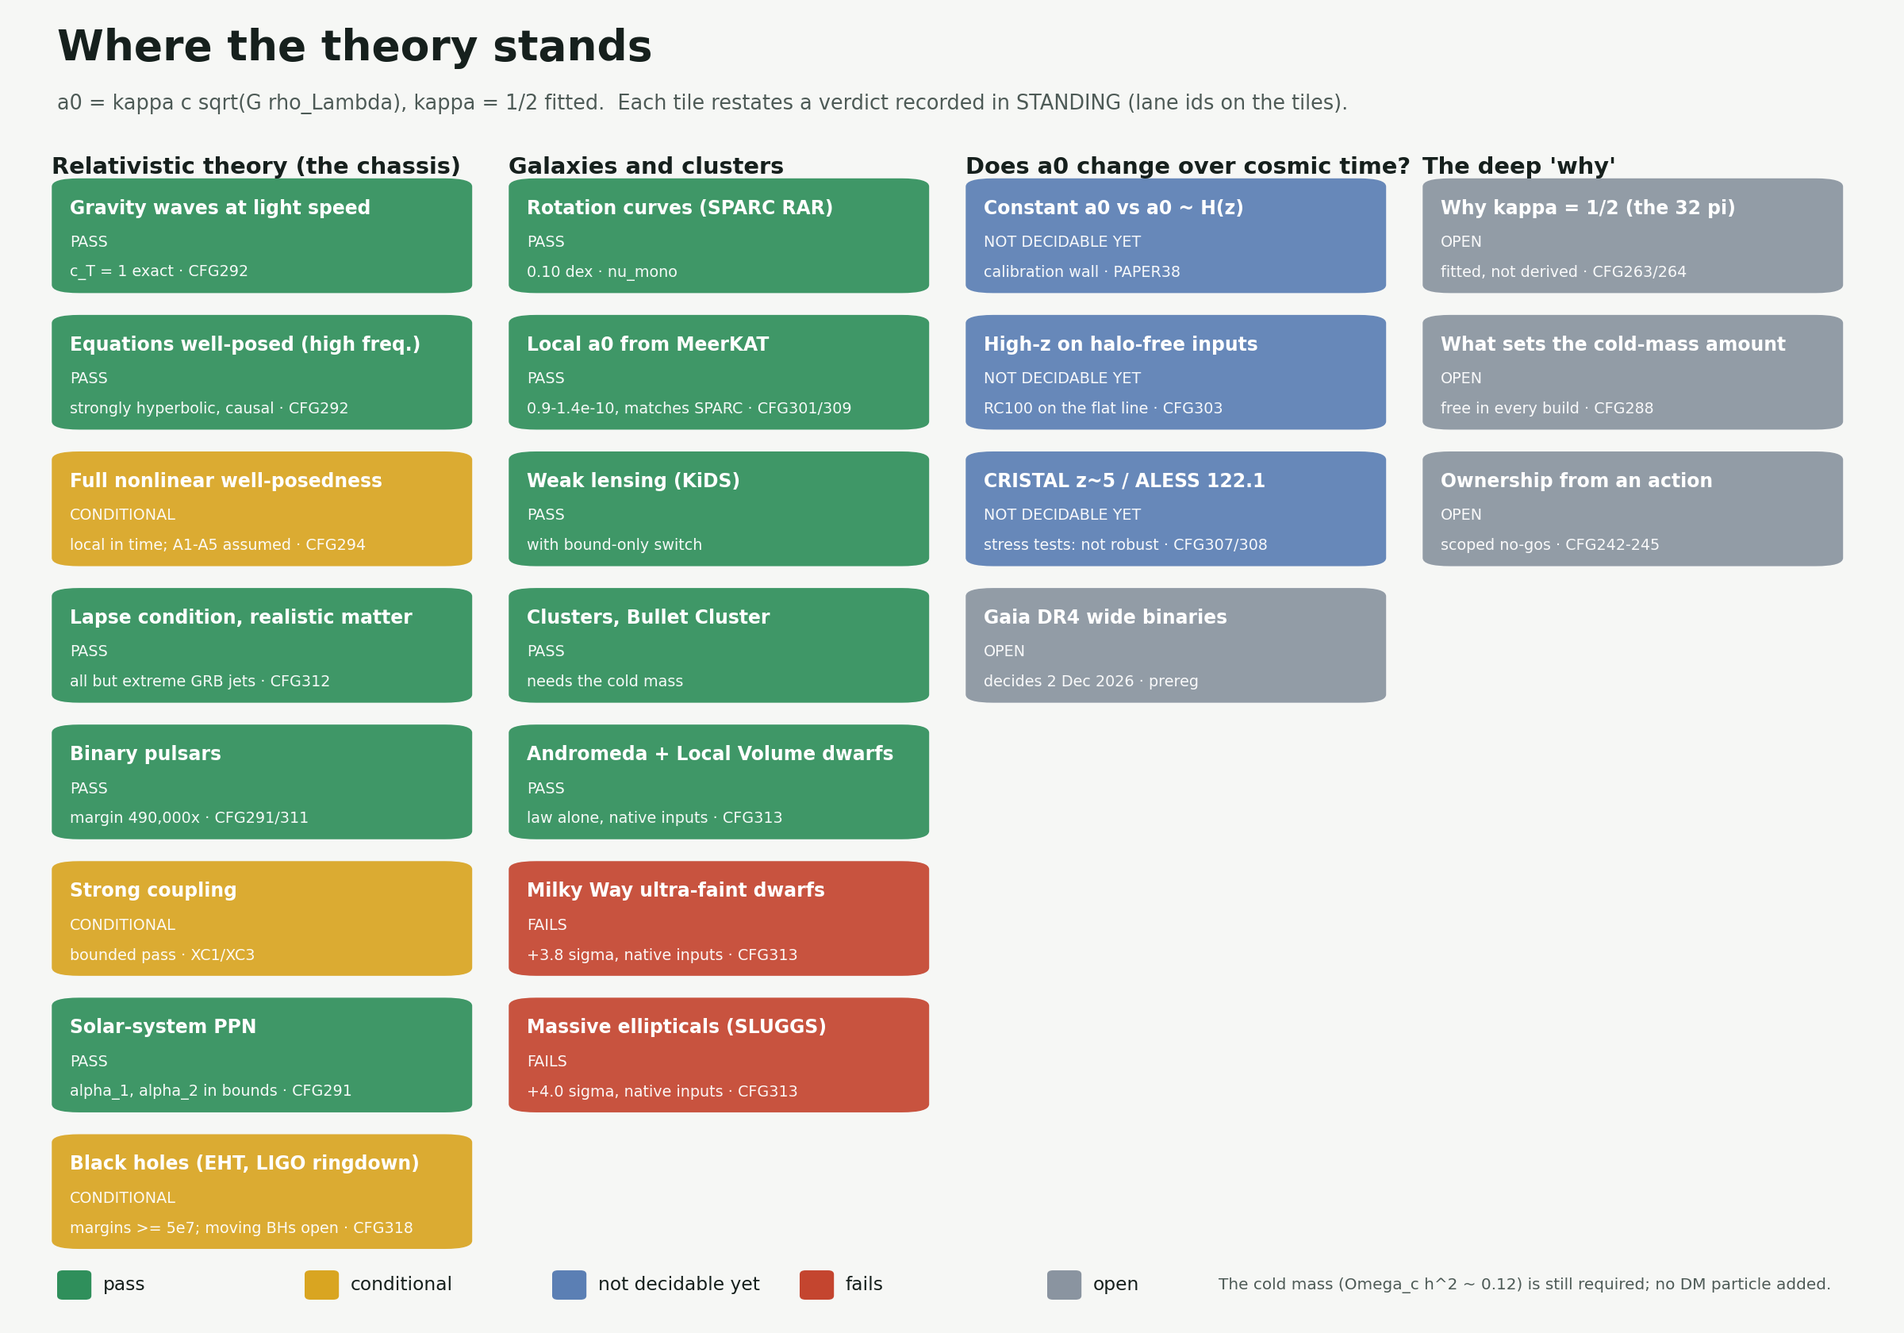
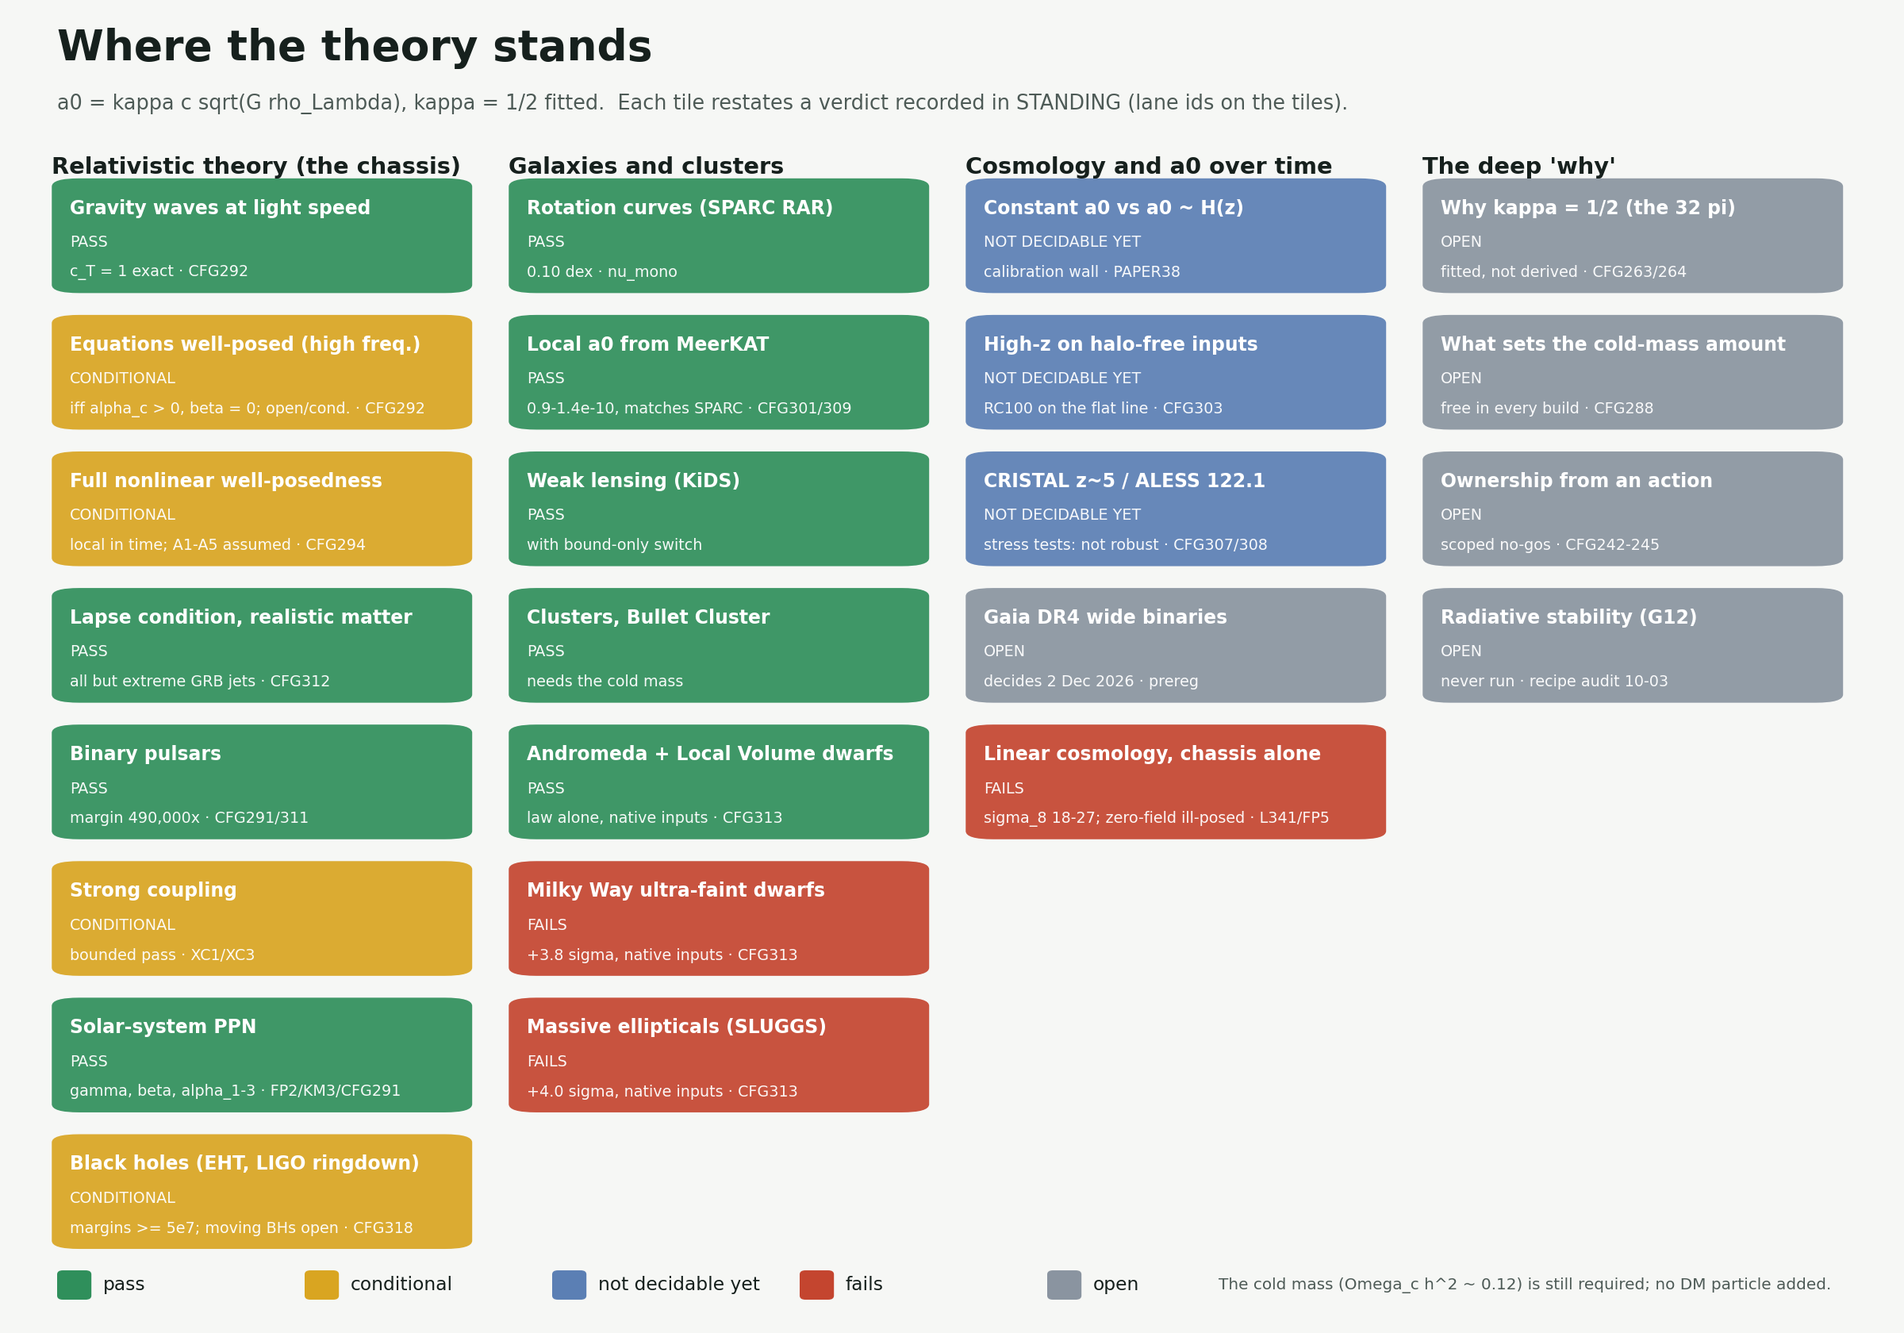
Recipe gate audit 2026-10-03 (every G0-G12 gate mapped to its recorded verdict for the current chassis; no verdict upgraded) + status picture corrected: CFG292 well-posedness shown CONDITIONAL (recorded OPEN/CONDITIONAL, was wrongly PASS); PPN tile cites FP2/KM3/CFG291; added the omitted FAIL tile '

diff --git a/campaign_fresh_gravity/closure_map/status_picture_2026_10_03.py b/campaign_fresh_gravity/closure_map/status_picture_2026_10_03.py
@@ -14,12 +14,12 @@ LAB = {"PASS": "pass", "COND": "conditional", "OPEN": "open", "FAIL": "fails", "
 groups = [
     ("Relativistic theory (the chassis)", [
         ("Gravity waves at light speed", "PASS", "c_T = 1 exact · CFG292"),
-        ("Equations well-posed (high freq.)", "PASS", "strongly hyperbolic, causal · CFG292"),
+        ("Equations well-posed (high freq.)", "COND", "iff alpha_c > 0, beta = 0; open/cond. · CFG292"),
         ("Full nonlinear well-posedness", "COND", "local in time; A1-A5 assumed · CFG294"),
         ("Lapse condition, realistic matter", "PASS", "all but extreme GRB jets · CFG312"),
         ("Binary pulsars", "PASS", "margin 490,000x · CFG291/311"),
         ("Strong coupling", "COND", "bounded pass · XC1/XC3"),
-        ("Solar-system PPN", "PASS", "alpha_1, alpha_2 in bounds · CFG291"),
+        ("Solar-system PPN", "PASS", "gamma, beta, alpha_1-3 · FP2/KM3/CFG291"),
         ("Black holes (EHT, LIGO ringdown)", "COND", "margins >= 5e7; moving BHs open · CFG318"),
     ]),
     ("Galaxies and clusters", [
@@ -31,16 +31,18 @@ groups = [
         ("Milky Way ultra-faint dwarfs", "FAIL", "+3.8 sigma, native inputs · CFG313"),
         ("Massive ellipticals (SLUGGS)", "FAIL", "+4.0 sigma, native inputs · CFG313"),
     ]),
-    ("Does a0 change over cosmic time?", [
+    ("Cosmology and a0 over time", [
         ("Constant a0 vs a0 ~ H(z)", "UNDEC", "calibration wall · PAPER38"),
         ("High-z on halo-free inputs", "UNDEC", "RC100 on the flat line · CFG303"),
         ("CRISTAL z~5 / ALESS 122.1", "UNDEC", "stress tests: not robust · CFG307/308"),
         ("Gaia DR4 wide binaries", "OPEN", "decides 2 Dec 2026 · prereg"),
+        ("Linear cosmology, chassis alone", "FAIL", "sigma_8 18-27; zero-field ill-posed · L341/FP5"),
     ]),
     ("The deep 'why'", [
         ("Why kappa = 1/2 (the 32 pi)", "OPEN", "fitted, not derived · CFG263/264"),
         ("What sets the cold-mass amount", "OPEN", "free in every build · CFG288"),
         ("Ownership from an action", "OPEN", "scoped no-gos · CFG242-245"),
+        ("Radiative stability (G12)", "OPEN", "never run · recipe audit 10-03"),
     ]),
 ]
 

diff --git a/campaign_fresh_gravity/closure_map/RECIPE_GATE_AUDIT_2026-10-03.md b/campaign_fresh_gravity/closure_map/RECIPE_GATE_AUDIT_2026-10-03.md
@@ -1,0 +1,112 @@
+# Recipe gate audit, 2026-10-03: G0–G12 against the current chassis
+
+Documentary audit. No new calculation, no verdict upgraded. Every verdict below is quoted from a committed record
+(STANDING_2026-09-29.md, LEDGER.md, closure_map/GATES_STATUS_2026-09-29.md, the lane READMEs/outputs named). κ = ½ is
+FITTED; the cold mass is still required; nothing here says the theory is closed.
+
+## What is being scored
+
+- **The recipe:** `qwen_claude_field_theory/closure_2026/CRISPY_FRIED_CHICKEN_RECIPE.md` §5 (G0–G12), read with its
+  2026-09-26 user decisions: the kernel is ν_mono (QUMOND, through the heat filter S = e^{(ξ²/2)Δ}); causality is
+  criterion B; Z = 5.7888 is κ = ½ restated; two branches (B-νmono C-H/K and IC28), never pooled; the switch variable
+  is "all doors". The recipe's G1 and V1 wording ("μ = 1 − e^{−y}") is superseded by the ν_mono decision; G1 is read
+  with ν_mono below.
+- **The current chassis:** the ungated filtered C-H/K khronon (L340, 9ea5ab2c6): GR + α_c a·a − c₂K² with β = 0,
+  α_c ∈ [9.6e-14, 3.2e-9], c₂ = λ_K − 1 ∈ [7.29e-3, 0.0667], the leaf-average λ-term (L350 G5), ν_mono, ξ ≥ 0.031 pc
+  (canonical) / 0.045 pc (alt).
+- **Candidate B** = the law + ownership + the cold component. No committed action produces B (GATES 5.01 FAIL / OPEN).
+  So a chassis pass is a pass for the chassis, not for B; B's population rows are effective-law results.
+
+## Same cell ≠ same model: results that do NOT transfer to the chassis
+
+- The recipe's §9 table (G3/G6/G7 PASS, G8 OPEN) belongs to the khronometric + MOND candidate with η = 2e^{−y}, which
+  died 09-01 (FC-KH). Historical only.
+- XR25 (pulsars, PPN, compact objects) and XR26 (CMB, BBN) score the derivation chain's FP14 core: c₂ → ∞ (CMC
+  multiplier), an AQUAL-type scalar, FP13's separator and a dark field. Different action; none of its passes or fails
+  transfer. FP2 and FP5 in the same directory ARE rooted in the ungated C-H/K core and are used below.
+- DE1–DE3's growth/KiDS/forest passes use a prescribed vacuum gate; DE12/DE13 find that gate unstable as an action,
+  and the V0 region gate is obstructed when varied (GATES 5.02). Those passes are not chassis passes.
+- GATES §1–§3 rows (SPARC, clusters, KiDS isolated lenses, CMB "met by construction") are candidate B's effective law.
+
+## Gate table
+
+| gate | recipe requirement (one line) | recorded verdict (lane, commit) | for which model | what would move it |
+|---|---|---|---|---|
+| **G0** | Structural order: put Φ → εΦ and order every source; different orders cannot cancel | **NOT RUN** on the chassis. The record's G0 kill (a9261161) is for an older auxiliary carrier. | none for the chassis | Order every chassis term under Φ → εΦ: the C-H constitutive term, δS (the filter's metric variation), the leaf average, the khronon |
+| **G1** | Exact MOND reduction over the full MOND domain (now ν_mono, QUMOND, filtered) | Static chassis inherits C-H's static solutions exactly (L340 H5 PASS). SPARC RAR PASS, 0.1003 dex, RE-RUN-CLEAN (GATES 1.01). Derivation from the assembled action (gate + region kernel): **ORPHANED** (XR3 row 1(b)). B: 5.01 FAIL / OPEN. | chassis static sector: yes; B: no action | Derive the quasistatic law from one assembled action; settle the C^{1,1} splice (C² variant or a nonsmooth argument; XR3 step 0(b), an owner choice) |
+| **G2** | Measured G_N derived; regular recovery with the same G in dynamics, lensing, cosmology | Derived on the ungated chassis: G_N = G/(1 − α_c/2), G_cos = G with the leaf average, growth coupling 1/(1 − α_c/2), no slip (FP2 D1–D3, 24aae971e; KM3 2f7ddacd2). Solar recovery only through the filter: bare ν_mono misses the planetary bound 2894–3620× (CFG185 568107b4f). Assembled action: **orphaned** (GATES 5.09; XR3 row 10). 4.01 passes via ownership (effective law). | ungated chassis | Measured G of the assembled action (region kernel with M = 0 in the Solar System, gate on) |
+| **G3** | Tensor sector: Q_T > 0, c_T² = 1 | c_T² = 1/(1 − β) exactly, 1 at β = 0, GR's kinetic term (CFG292 T1, 918b33183; FP2 A3). GATES 5.07: "c_T = 1 in the reduced sector". TT on anisotropic gate-on backgrounds: **ORPHANED (low risk)** (XR3 row 6). | chassis | TT modes on anisotropic MOND backgrounds with the constitutive term and δS |
+| **G4** | DOF from an actual Hamiltonian/characteristic analysis | Ungated chassis: **DERIVED** canonical count 2 tensor + 1 khronon scalar, 0 vector, N = 3; heat-filter pairs second class, no extra mode (FP5 G-2a, B1–B2, a26136bc4); same count from the characteristic determinant (CFG292 T1). Assembled action Dirac classification: **ORPHANED** (GATES 5.05; XR3 row 2). | ungated chassis | Spec reading, not a calculation: whether the khronon is the permitted, separately counted clock (I3a). Criterion B supports that reading but does not replace it (XR3 row 2). Then the assembled count |
+| **G5** | No ghost, no gradient instability, for every propagating mode | Healthy on Minkowski and on static MOND backgrounds (FP2 C3); khronon kinetic coefficient (2 + 3c₂)/(2c₂) > 0 (FP5 B3); healthy for every field above y* a₀ (FP5 C1). **FAILS** at an open zero-field region, the ungated core's own FRW: α_eff = 2 + α_c > 2, Hadamard ill-posed linearisation; amplitude saturates near y ~ y* (FP5 G-2f, C2–C4). V0 region gate: **FAIL as varied** (GATES 5.02). | chassis (FP5); V0 assembled (5.02) | A nonperturbative treatment of the zero-field background (FP5 C4: FRW "is not a perturbative background"), or a construction that keeps the kernel off there (FP5 C6's priced c_CH = 2(1 − δ) exit, not adopted) |
+| (G4/G5 Cauchy) | Criterion B; mixed elliptic–hyperbolic problem well-posed | CFG292: **OPEN under the literal frozen rule, CONDITIONAL by its own §2** (owner decides which stands); strongly hyperbolic in the τ gauge iff α_c > 0, β = 0; criterion B holds and the khronon leaves are forced. CFG294 (e92012b82): **CONDITIONAL, local in time**, A1–A5 assumed. CFG312 (b15bf423c): W ≤ 0 **PASS-WITH-EXCEPTIONS** (extreme GRB jets). | chassis | Prove A1–A5 (paradifferential estimates, constraint propagation); zero-field regions; β ≠ 0 not needed (β = 0) |
+| **G6** | Derive Φ, Ψ; MOND dynamics and lensing; target Φ = Ψ | Static leading-order block has equal, independently solved potentials (L340 H5; ACTION.md; called "conditional"); γ = 1 for every C_eff (FP2 B3). GATES 4.03: **NS as derivation**. Assembled action: **ORPHANED** (XR3 row 3). Data side (B, effective): KiDS isolated lenses PASS at x_e = 0.4; KiDS early/late split B-specific failure (STANDING §3); CFG316 NOT DIAGNOSTIC. | chassis static: conditional; B: effective only | Φ, Ψ for nonspherical sources with δS and the region kernel; DES Y3 / HSC Y3 shapes for the split (owner decision) |
+| **G7** | γ, β, α₁, α₂, α₃ computed explicitly | Ungated chassis with the C-H sector and filter live: γ = 1, α₃ = 0, α₁, α₂ in closed form, leakage ≤ 1e-11 at bound scales (FP2 B3–B4, L6a/L6c DERIVED); β = γ = 1 at 1PN (KM3). Over the window α₁ ≤ 1.28e-8; α₂'s top edge sits on the pulsar bound **by construction** (CFG291 5f1f07dc2). ζ_i, ξ: documentary (KM3 P4/P6). GATES 4.04: **NS for B**. | chassis | Full PPN of the assembled action (gate on, region kernel M = 0, filtered remainder computed) — XR3 row 4, low risk |
+| **G8** | Λ_sc on the actual Solar-System background ≫ E | **Bounded pass at frozen-background decoupling scope**, M_sc ≥ 8.5e8 GeV (XC1, XC3); filter metric variation enters only soft legs (XC6 part 1, abbc58baf). Conditional at full-action scope (GATES 5.03). XC6 part 2 **not done**. | chassis | XC6 part 2: canonical couplings of soft-legged vertices on Sun + Galaxy at ξ = 0.031 pc; quartic contact/exchange with nonlinear U elimination; second metric variation |
+| **G9** | Full relativistic matter conservation | GATES 5.06: **NS**. Assembled action: **ORPHANED** (XR3 row 5). For B's gated field the Noether identity is exact but reacts on baryons at 0.55–2.2 of their weight (CFG48 G1). Ungated chassis with minimal S_m[g, ψ]: no committed lane writes the identity. | none for the chassis | Write the generalized Bianchi identity of the ungated chassis including the heat-filter pair and the leaf average's global term |
+| **G10** | FLRW, a₀ behaviour, cosmological G, perturbations, growth, CMB/ISW | Ungated chassis: **FAILS** linear cosmology, σ₈ = 18–27 (L341, e9f450b10); no linear FRW at zero gradient (FP2 D4; FP5 G-2f). Background is GR's Friedmann equation, c₂ root tension removed at linear order by the leaf average (FP2 D1–D2). Plain −c₂K² c₂ window excluded by Planck-era caps (L350). With the prescribed gate: growth, KiDS, forest restored (L359, DE2), but the gate is unstable as an action (DE12/13). GATES 5.10: **partial**. B: CMB "met by construction", growth "met by allowance". | chassis: FAIL; gated: prescribed only | A varied, stable switch on FRW at the actual B (XR3 row 8 (a)–(c), orphaned); the dark state at action level (5.11 OPEN) |
+| **G11** | Compact objects, BHs, caustics | **CONDITIONAL** (CFG318, 91a1a7bcb): static BHs regular outside the horizon, margins ≥ 4.9e7; condition = Ramos & Barausse 2019 moving BHs (read as a proof for all α > 0 it would be KILL; owner's call). Pulsars: **PASS at the stated scope** (CFG311, 3303c9341; margin 4.9e5). | chassis | CFG319 (moving BHs), running — excluded from the ranking |
+| **G12** | Is the screening relation technically stable or fine-tuned? | **NOT RUN.** XC1 lists "loops and naturalness (G12)" as not covered. No lane on the record. | none | A radiative-stability lane (below) |
+
+### Two wording flags found in the audit (not corrected here)
+
+1. `closure_map/status_picture_2026_10_03.py` draws "Gravity waves at light speed" and "Equations well-posed (high freq.)"
+   as PASS with "CFG292". CFG292's recorded status is OPEN (literal frozen rule) / CONDITIONAL (its own §2), owner to
+   decide (STANDING line 560). The c_T = 1 algebra itself is exact (T1; FP2 A3), but the tile cites a lane whose verdict is
+   not PASS. Similarly "Solar-system PPN PASS · CFG291": CFG291 scores α₁, α₂ only; γ, α₃ come from FP2, β from KM3.
+2. GATES 5.05 "N_grav = 2 orphaned" refers to the assembled action; the ungated count (FP5 G-2a, N = 3) is derived but
+   not cited there. The open part is the spec reading of the khronon as a clock, not the count.
+
+## Ranking: gates that are NOT RUN, or OPEN and runnable offline now
+
+Excluded: G11 (CFG319 running). Excluded as needing an owner decision or data: the khronon-as-clock reading (G4), the
+CFG292 reading, the C² splice choice, DES Y3 / HSC Y3 shapes (G6 data), a new gate architecture (G10).
+
+| rank | gate | why this rank |
+|---|---|---|
+| 1 | **G12** naturalness and Lorentz-violation percolation | The only gate with no record at all. It can exclude part of the window: the chassis has c₂ ~ 1e-2 of gravitational Lorentz violation, and loops can feed that into matter, where bounds are far tighter. A loss here constrains every other pass. |
+| 2 | **G5/G10** nonlinear evolution around an open zero-field region | FP5 records the chassis's own FRW linearisation as Hadamard ill-posed, but saturating near y*. Whether the nonlinear problem is well-posed there decides whether the ungated chassis has a cosmological Cauchy problem at all. CFG294 explicitly left this out. |
+| 3 | **G8** full strong coupling (XC6 part 2) | The recipe's historical make-or-break. It holds only at decoupling scope. Part 2 is fully specified and offline, and could lower M_sc through the canonical dimensions of the hard legs. |
+| 4 | **G9 + G0** chassis Bianchi identity and structural order | Both never run on the chassis. One sympy lane can cover both. Likely benign for minimal coupling, but the leaf average's global term and δS have not been checked. |
+| 5 | **G6** Φ = Ψ with δS for nonspherical sources | Only the static leading-order block is checked. Low to moderate risk. |
+| 6 | **G3** TT on anisotropic MOND backgrounds | Low risk (XR3 row 6). |
+| 7 | **G7** remaining PPN (ζ_i, ξ, filtered remainder) on the chassis | Low risk (FP2 already has γ, α₁–α₃). |
+
+## Lane specs for the top three
+
+**1. G12, radiative stability of the chassis window (proposed id: next orchestrator block).**
+Inputs come from committed files only: L340's window (α_c, c₂), XC1's M_sc ≥ 8.5e8 GeV as the EFT cutoff, ν_mono's δ = 0.05, and
+ξ ≥ 0.031 / 0.045 pc. Freeze criteria first. Part A: one-loop corrections to α_c, c₂ and the ν_mono coefficients
+from graviton/khronon loops and from matter loops, by power counting with the cutoff set to M_sc. Is α_c ~ 1e-13–1e-9
+technically natural? That means checking whether α_c → 0 enlarges a symmetry, or whether loops generate α_c ~ c₂ (Λ/M_P)².
+Part B: Lorentz-violation percolation. Estimate the matter-sector LV induced through gravitational loops, of order c₂ (Λ/M_P)², and compare it
+with the strongest SME-type matter bounds. Declare all bound values PROVISIONAL (from memory; no download).
+Part C: does the screening relation survive, i.e. is the heat filter's Gaussian stable under loops, or is a ξ-dependent
+term generated that un-screens the Solar System? Decision rule: PASS if every window corner is stable within its band;
+CONDITIONAL if a stated sub-window survives; FAIL if none does. Controls: reproduce a published Hořava/khronometric
+percolation estimate in its α, β, λ → 0 limit; MUTATE with c₂ = 0.5 must fail Part B. Both footings (a₀ enters only
+Part C).
+
+**2. G5/G10, nonlinear evolution at an open zero-field region (extends CFG294 and FP5 C2–C4).**
+The system is the ungated chassis on a periodic leaf. The background is FRW + Λ + dust with small inhomogeneous perturbations, so ∇Su ≈ 0
+over open regions. Freeze criteria first. Step 1: reproduce FP5's linear band (k_max ξ = √ln(C/C*)) and C4's
+saturation at y ~ y*. Step 2: evolve the reduced nonlinear system (lapse elliptic, U solved per leaf, khronon hyperbolic)
+in 1+1 and 2+1, under at least two resolutions. Test continuous dependence on data, i.e. whether nearby initial data separate by a
+bounded factor, and whether the saturated state is resolution-independent. Step 3: report the post-saturation y-distribution and
+whether it is the √ε-Osgood failure (XC5 E6) or a regular state. Decision rule: CONDITIONAL if a regular saturated
+state with continuous dependence exists for a stated data class; FAIL (KILL-class for the ungated chassis's own
+cosmology) if solutions branch or depend discontinuously on data; OPEN if resolution does not converge.
+Controls: the GR + dust limit (C → 0) must be well-posed, and the linear regime must match FP5's band. MUTATE: open the
+zero-field region with μ_exp's turning kernel; it must fail. Scope: this is not growth or σ₈ (L341 stands).
+
+**3. G8, full strong coupling, XC6 part 2.**
+XC6's open list is the spec. (a) Canonically normalise every soft-legged δS vertex on the Sun + Galaxy background at
+ξ = 0.031 pc (and 0.045), using D3's soft-leg bound for the derivative factors. Compute each vertex's strong-coupling
+scale, including growth through canonical field dimensions with many hard legs. (b) Quartic contact and exchange terms
+with U eliminated nonlinearly (XC2's convex leaf solve), not linearly. (c) Bound the second metric variation analytically
+rather than sampling it (D4). Freeze criteria first. Decision rule: full-scope PASS if min M_sc over all classes is
+≥ 1e3 × the relevant energy (the XC1 convention) at every window corner; CONDITIONAL if this holds only on a sub-window or with a stated
+assumption; FAIL if any class falls below. Controls: reproduce XC1's 8.5e8 GeV and Gümrükçüoğlu–Saravani–Sotiriou eq.
+15 in the filter-off limit, and XC6 D1's 0.8969 at K = 20. MUTATE with α_c = 0 must fail, as in XC1. Lean
+certificates for the scalar inequalities, as XC6 did.
+
+κ = ½ stays FITTED. A chassis pass is never a pass for candidate B, whose action does not exist (5.01).
